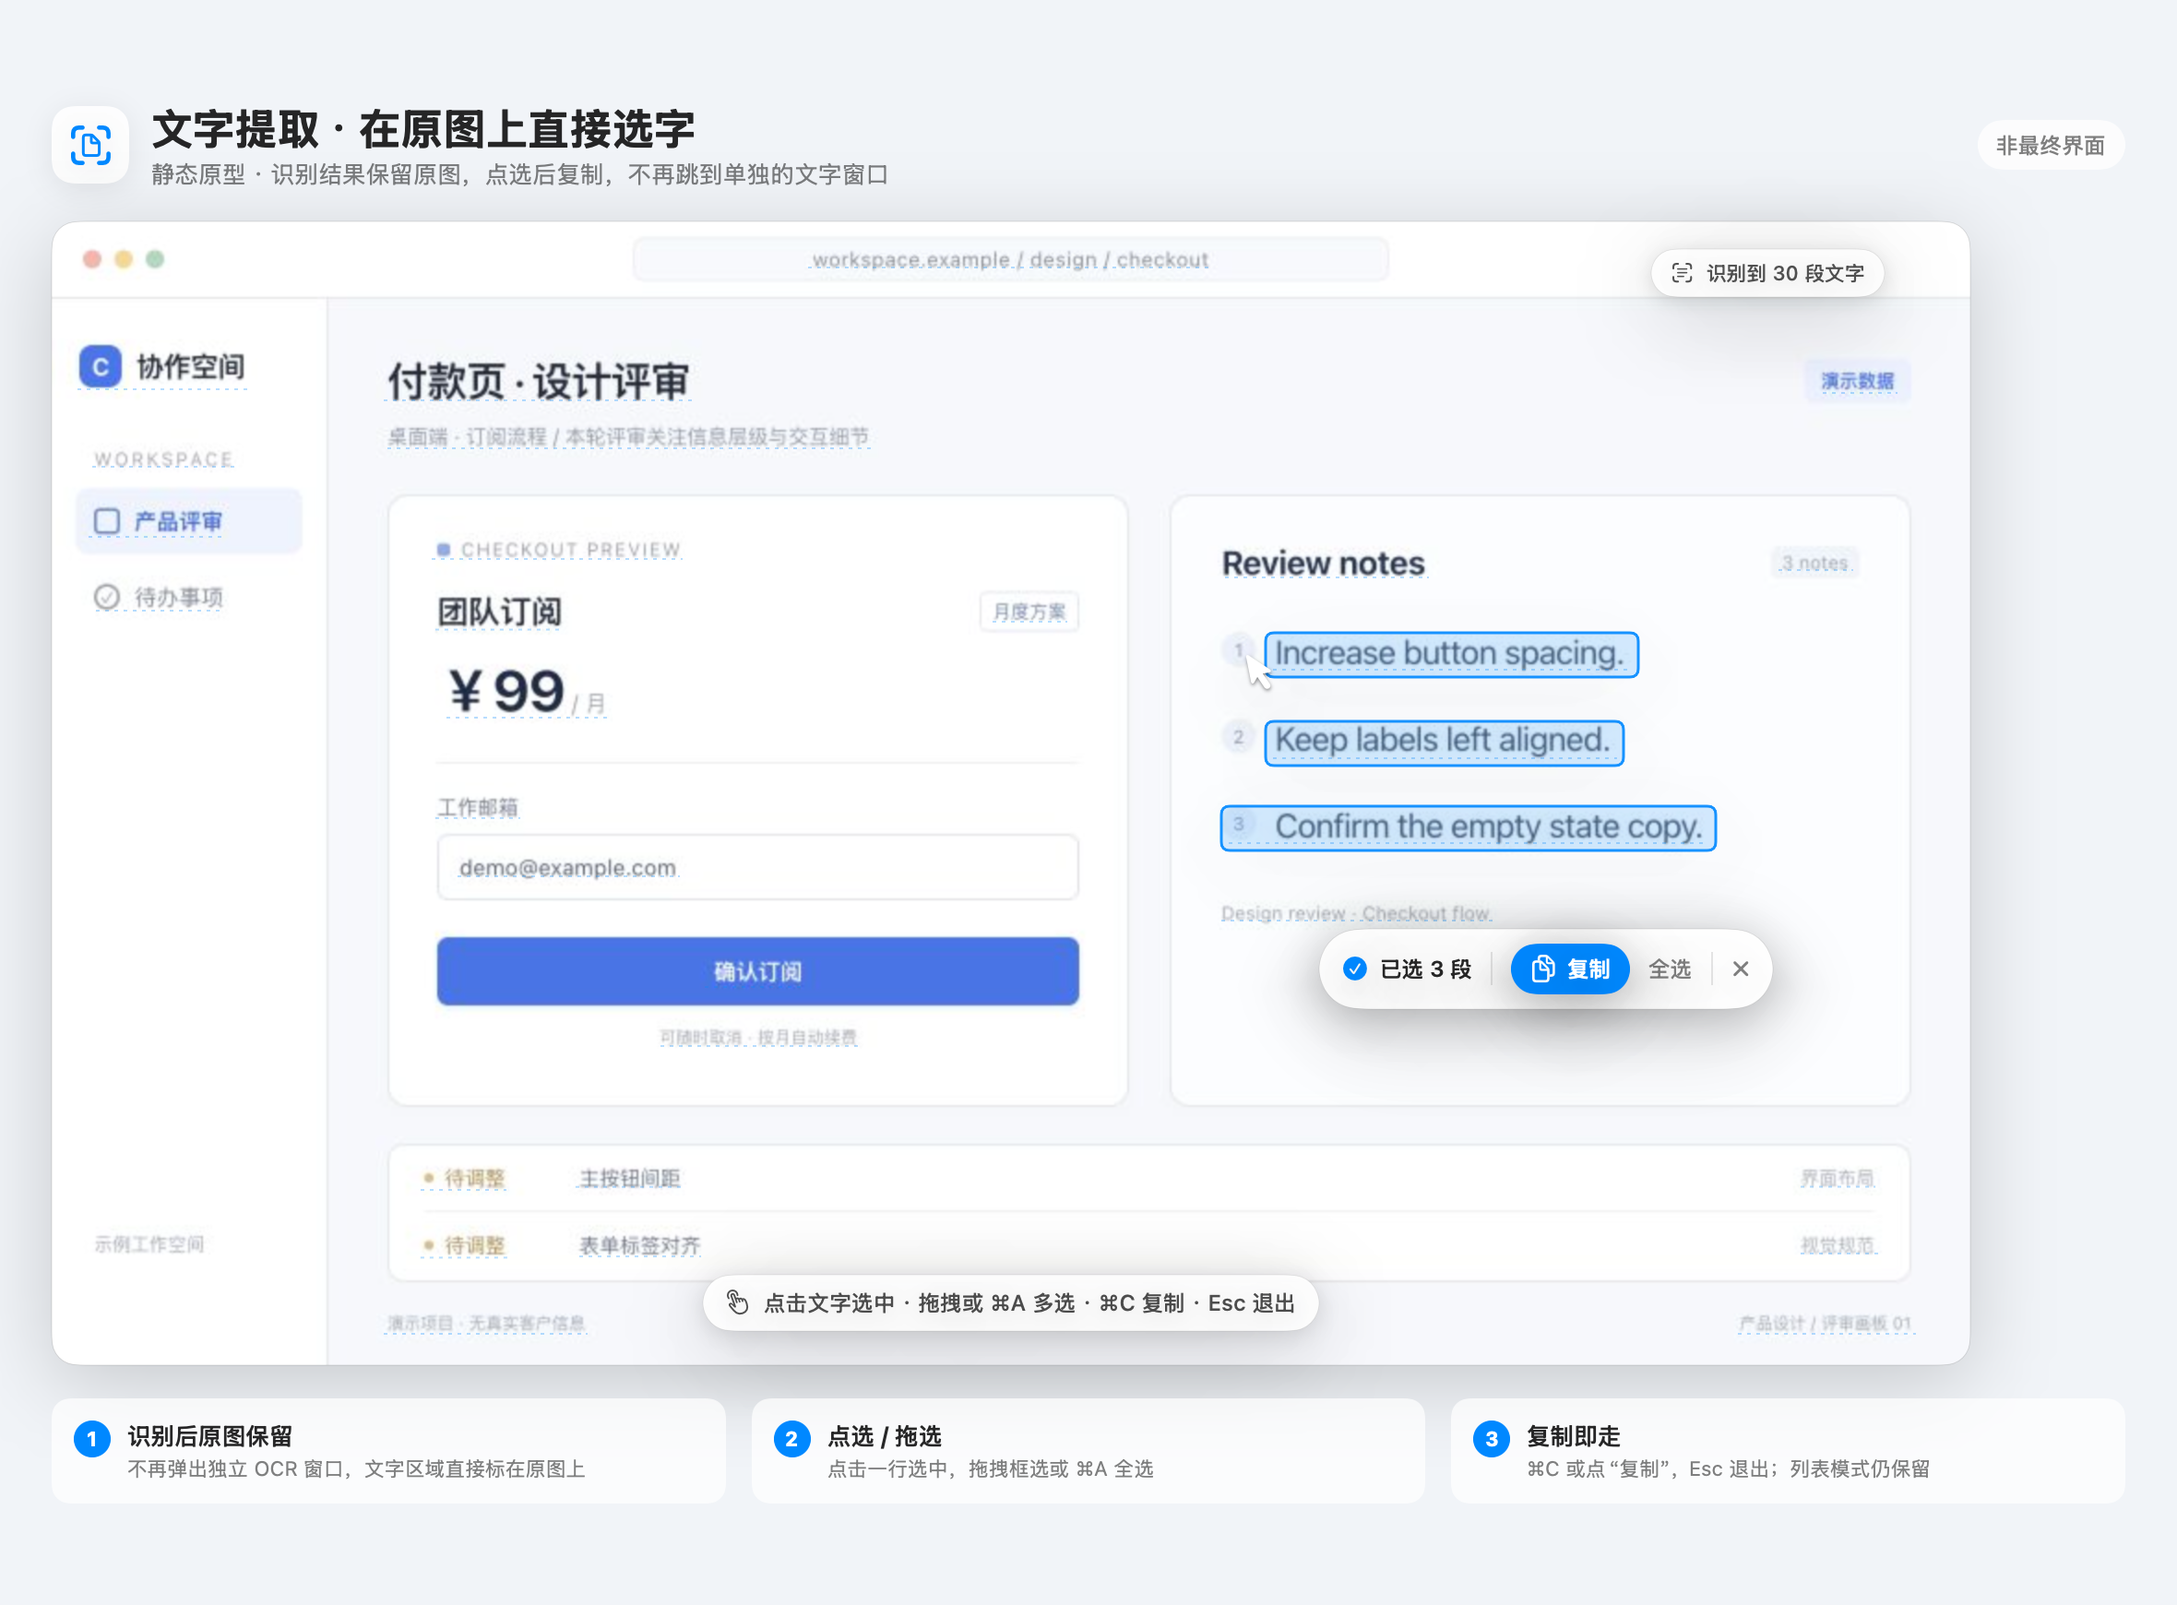
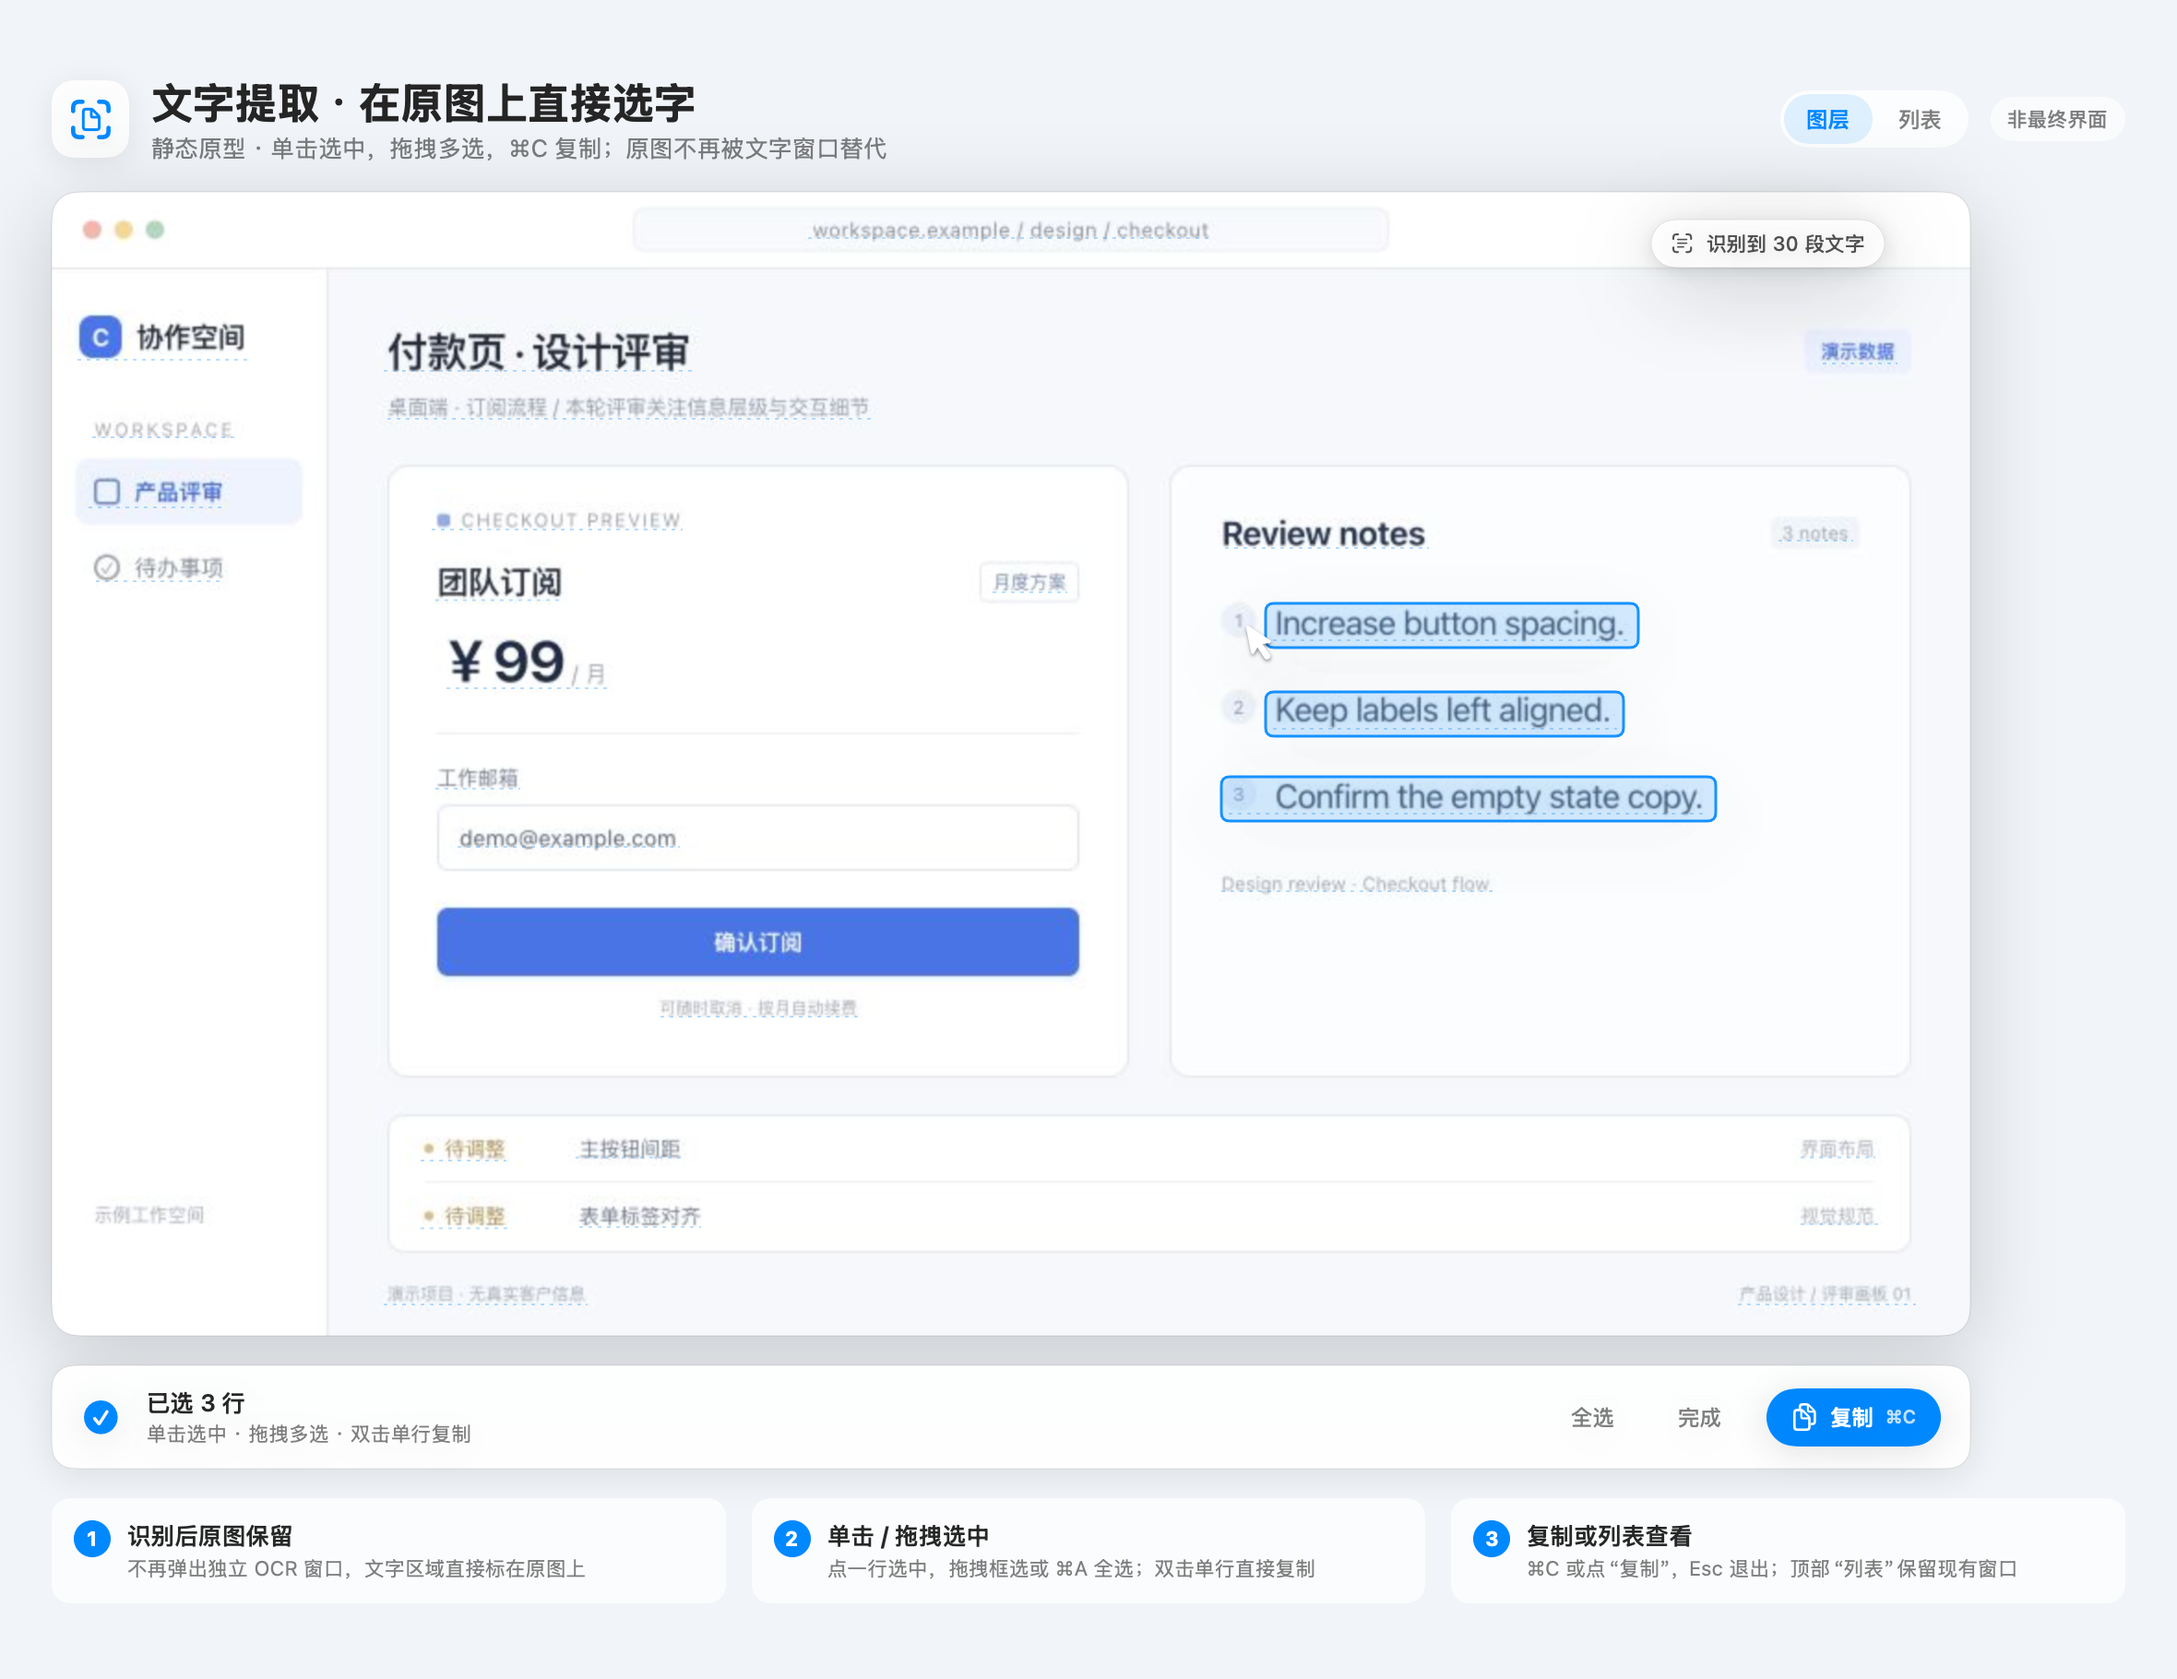
Refine the in-place OCR prototype with a fixed action bar

diff --git a/docs/prototypes/ocr-in-place-20261020.md b/docs/prototypes/ocr-in-place-20261020.md
@@ -4,23 +4,25 @@
 
 ![原型](ocr-in-place-20261020.png)
 
-## 这张图表达的流程
+## 已确认的交互
 
-1. **识别后原图保留**：不再像现在这样把截图替换成独立文字窗口；识别到的每一行文字在原图上有一条很淡的虚线下划线，表示可点。
-2. **点选一行**：点文字后出现蓝色选区；选区下方浮出操作条“已选 3 段 / 复制 / 全选 / ×”。
-3. **多选**：拖拽框选或 `⌘A` 全选，`⌘C` 复制；`Esc` 退出文字层。
-4. **列表模式保留**：现有 OCR 文字窗口仍作为“列表模式”入口，不删除。
+1. **识别后原图保留**：不再把截图替换成独立文字窗口；识别到的每一行文字在原图上有一条很淡的虚线下划线，表示可点。
+2. **单击选中**：点一行显示蓝色选区；底部固定操作条显示“已选 3 行 / 复制 / 全选 / 完成”。
+3. **双击复制单行**：作为快捷方式，不替代单击选中。
+4. **多选**：拖拽框选或 `⌘A` 全选，`⌘C` 复制；`Esc` 退出文字层。
+5. **只读**：v1 不允许直接改字；需要编辑或查看全文时切到“列表”。
+6. **列表模式保留**：顶部“图层 / 列表”切换，现有 OCR 文字窗口不删除。
 
-## 待确认的交互决策
+## 这版相对上一版的变化
 
-- 点击一行：先选中再点“复制”，还是单击就直接复制？
-- 多选：是否保留拖拽框选和 `⌘A`，还是只做单击单行？
-- 操作条：跟随选区浮动，还是固定在窗口底部？
-- 文字层只读复制，还是允许双击改字后再复制？
-- 列表模式入口放哪里：顶部按钮、右键菜单，还是保留快捷键？
+- 操作条从“跟随选区浮动”改为**固定在截图下方**，不再遮挡识别文字。
+- 明确“单击选中、双击单行复制”，单击不会直接覆盖剪贴板。
+- 顶部增加“图层 / 列表”切换，列表模式保持可见入口。
+- 底部固定条同时显示选中数量和快捷提示。
 
 ## 暂不包含
 
 - 不承诺文字位置与排版完全还原（多栏、旋转文字会按识别框近似）。
 - 不替代现有 OCR 列表窗口；先做叠加层，稳定后再考虑统一。
 - 不改属性栏、翻译和标注逻辑。
+- 不做文字层内直接编辑；后续如有需要，再单独设计“双击改字/导出”。
